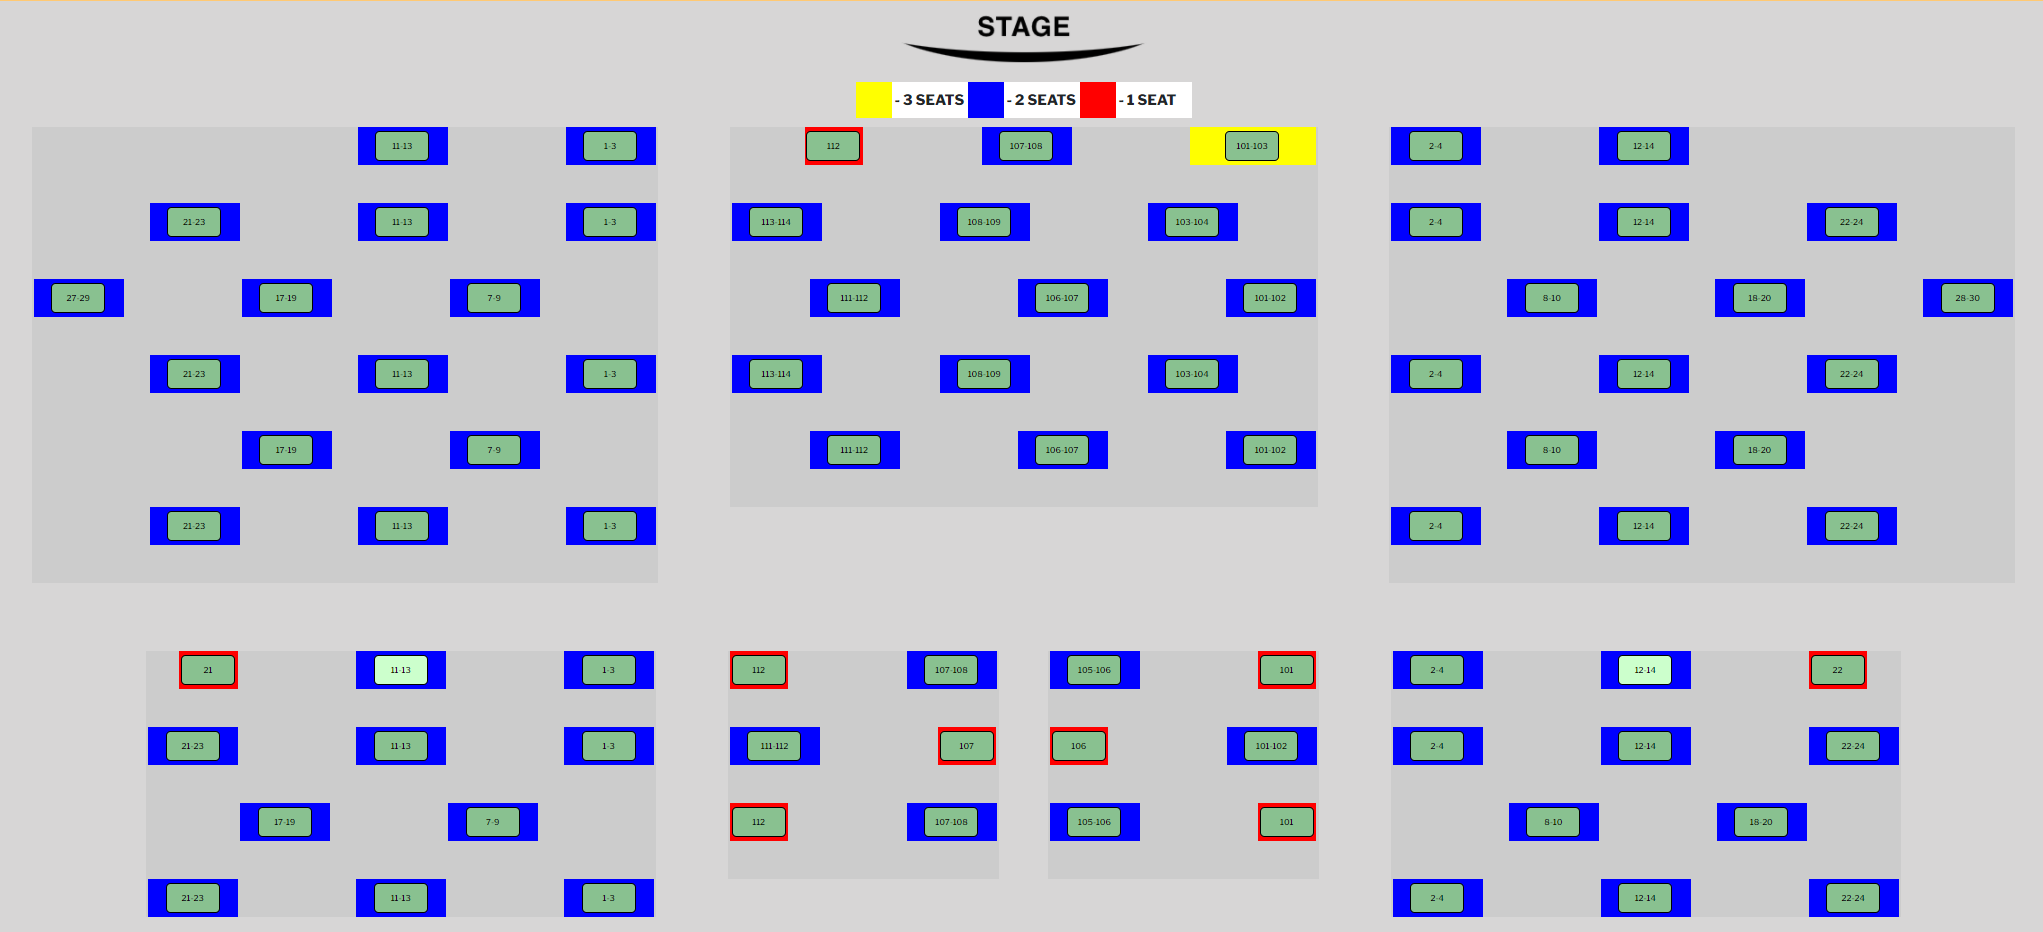
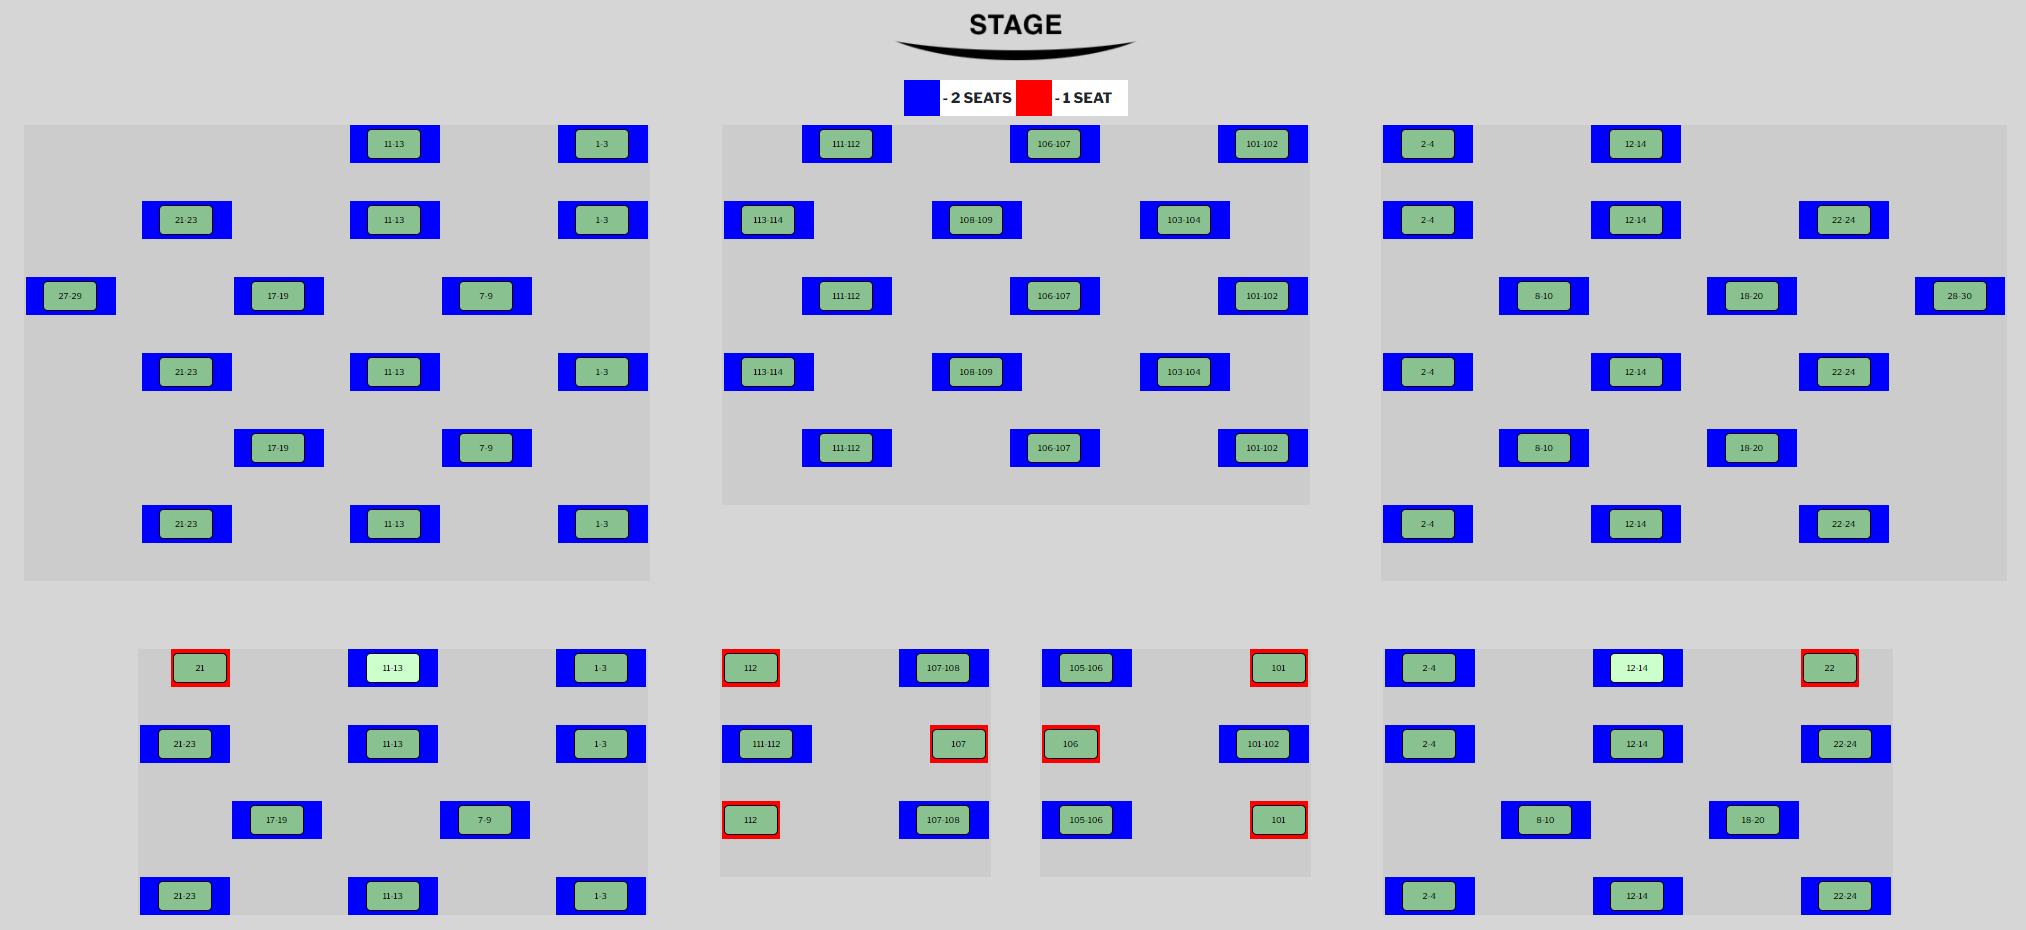
fixed two venues

diff --git a/Completed/24250.html b/Completed/24250.html
@@ -44,6 +44,15 @@
         justify-content: center;
         align-items: center;
     }
+
+    .stairs-info {
+        background-color: lightskyblue;
+        width: 168px;
+        height: 60px;
+        display: flex;
+        justify-content: center;
+        align-items: center;
+    }
 </style>
 
 <table width="100" align="center" border="0" cellspacing="0" cellpadding="0">
@@ -377,10 +386,15 @@
 
                                     <!-- Row Q -->
                                     <tr>
-                                        <td>
-                                            <div align='center'>
-                                                <img src="https://s3.amazonaws.com/prdv2-dt-client/seating_images/pixel.png" width="42" height="42">
-                                            </div>
+                                        <td align='center'>
+                                            <table align='center' width="100px">
+                                                <tr>
+                                                    <td>
+                                                        <div align='center' class="stairs-info adjust rotate90R" style="position: relative; top: 110px;">
+                                                        </div>
+                                                    </td>
+                                                </tr>
+                                            </table>
                                         </td>
                                     </tr>
 
@@ -720,10 +734,24 @@
 
                                     <!-- Row O -->
                                     <tr>
-                                        <td>
-                                            <div align='center'>
-                                                <img src="https://s3.amazonaws.com/prdv2-dt-client/seating_images/pixel.png" width="42" height="42">
-                                            </div>
+                                        <td align='center'>
+                                            <table align='center' width="100px">
+                                                <tr>
+                                                    <td>
+                                                        <div align='center' class="stairs-info adjust rotate90R" style="position: relative; top: 110px; right: 150px;">
+                                                        </div>
+                                                    </td>
+                                                    <td>
+                                                        <div align='center'>
+                                                            <img src="https://s3.amazonaws.com/prdv2-dt-client/seating_images/pixel.png" width="42" height="42">
+                                                        </div>
+                                                    </td>
+                                                    <td>
+                                                        <div align='center' class="stairs-info adjust rotate90R" style="position: relative; top: 110px; left: 150px;"></div>
+                                                        </div>
+                                                    </td>
+                                                </tr>
+                                            </table>
                                         </td>
                                     </tr>
 
@@ -1051,10 +1079,15 @@
 
                                     <!-- Row Q -->
                                     <tr>
-                                        <td>
-                                            <div align='center'>
-                                                <img src="https://s3.amazonaws.com/prdv2-dt-client/seating_images/pixel.png" width="42" height="42">
-                                            </div>
+                                        <td align='center'>
+                                            <table align='center' width="100px">
+                                                <tr>
+                                                    <td>
+                                                        <div align='center' class="stairs-info adjust rotate90R" style="position: relative; top: 110px;">
+                                                        </div>
+                                                    </td>
+                                                </tr>
+                                            </table>
                                         </td>
                                     </tr>
 
@@ -1136,6 +1169,25 @@
                                         </td>
                                     </tr>
                                 </table>
+                            </div>
+                        </td>
+                    </tr>
+                </table>
+            </div>
+        </td>
+    </tr>
+
+    <tr>
+        <td valign="top">
+            <div align="center" style="position: relative; bottom: 50px;">
+                <table align='center' style="background-color: white;">
+                    <tr>
+                        <td>
+                            <div style="background-color: lightskyblue; width:40px; height:40px"></div>
+                        </td>
+                        <td>
+                            <div align="left" style="width: 320px;">
+                                <strong> - Raised seating on rows P-X with stairs.</strong>
                             </div>
                         </td>
                     </tr>

diff --git a/Completed/24194.html b/Completed/24194.html
@@ -1,14 +1,5 @@
 <!-- Buena Regional High School Auditorium - MODIFIED SEATING -->
 <style>
-    .yellow {
-        background-color: yellow;
-        width: 140px;
-        height: 42px;
-        display: flex;
-        justify-content: center;
-        align-items: center;
-    }
-
     .blue {
         background-color: blue;
         width: 100px;
@@ -56,14 +47,6 @@
             <div align="center">
                 <table align='center' style="background-color: white;">
                     <tr>
-                        <td>
-                            <div style="background-color: yellow; width:40px; height:40px"></div>
-                        </td>
-                        <td>
-                            <div align="left" style="width: 80px;">
-                                <strong> - 3 SEATS</strong>
-                            </div>
-                        </td>
                         <td>
                             <div style="background-color: blue; width:40px; height:40px"></div>
                         </td>
@@ -377,7 +360,7 @@
                                             <table align='right'>
                                                 <tr>
                                                     <td>
-                                                        <div class='red' align='center'>
+                                                        <div class='blue' align='center'>
                                                             {{{ sectionsMarkupNoRowNames.36132 }}}
                                                         </div>    
                                                     </td>
@@ -397,7 +380,7 @@
                                                         </div>
                                                     </td>
                                                     <td>
-                                                        <div class='yellow' align='center'>
+                                                        <div class='blue' align='center'>
                                                             {{{ sectionsMarkupNoRowNames.36134 }}}
                                                         </div>    
                                                     </td>
